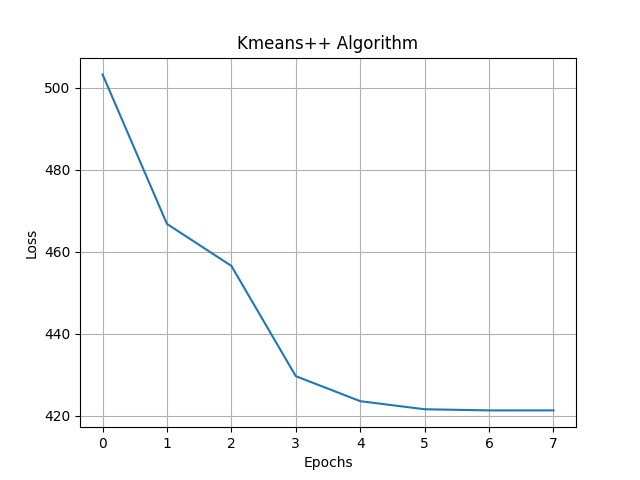
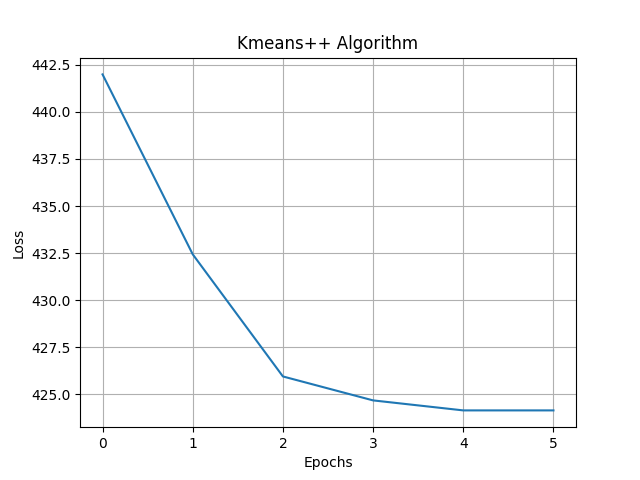
updates init kmeans function

diff --git a/models/Kmean_plus.py b/models/Kmean_plus.py
@@ -31,7 +31,7 @@ class KMeans_plus:
           min = np.linalg.norm(elt - self.centroids[0])
           for center in self.centroids:
             if np.linalg.norm(elt - center) < min :
-              min = np.linalg.norm(elt - self.centroids[0])
+              min = np.linalg.norm(elt - center)
           distances.append(min)
         distances = np.array(distances)
         proba = distances / distances.sum()
